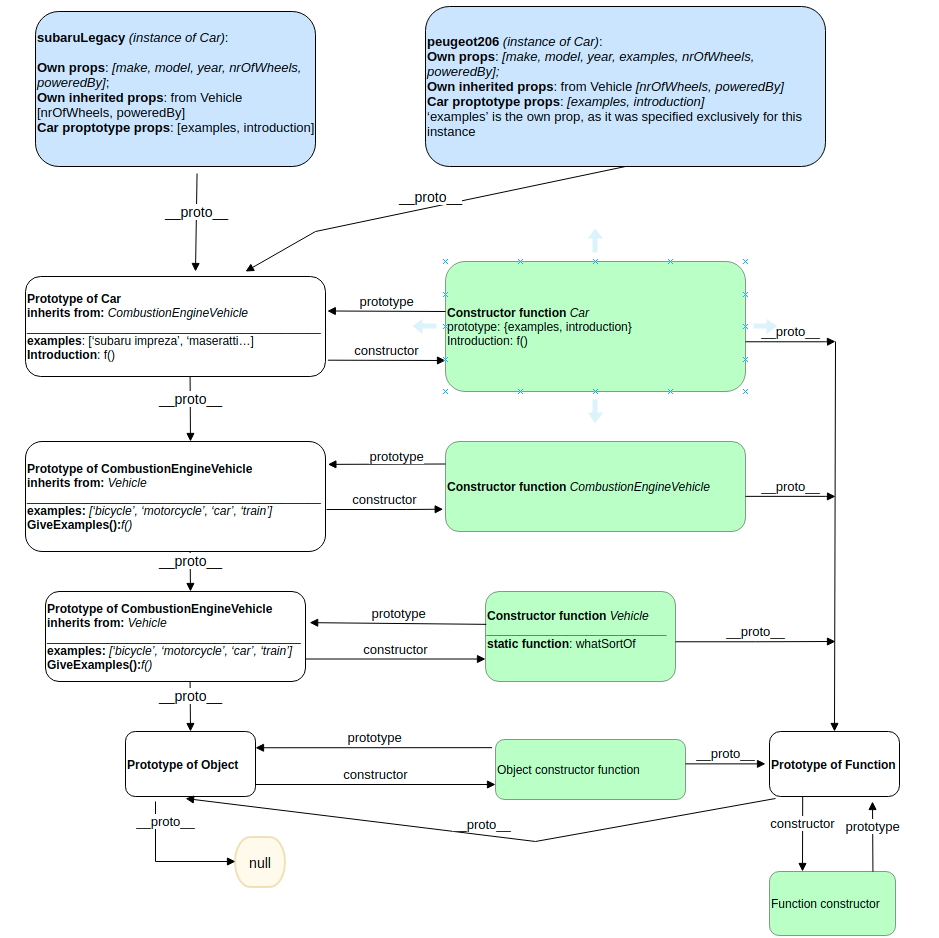
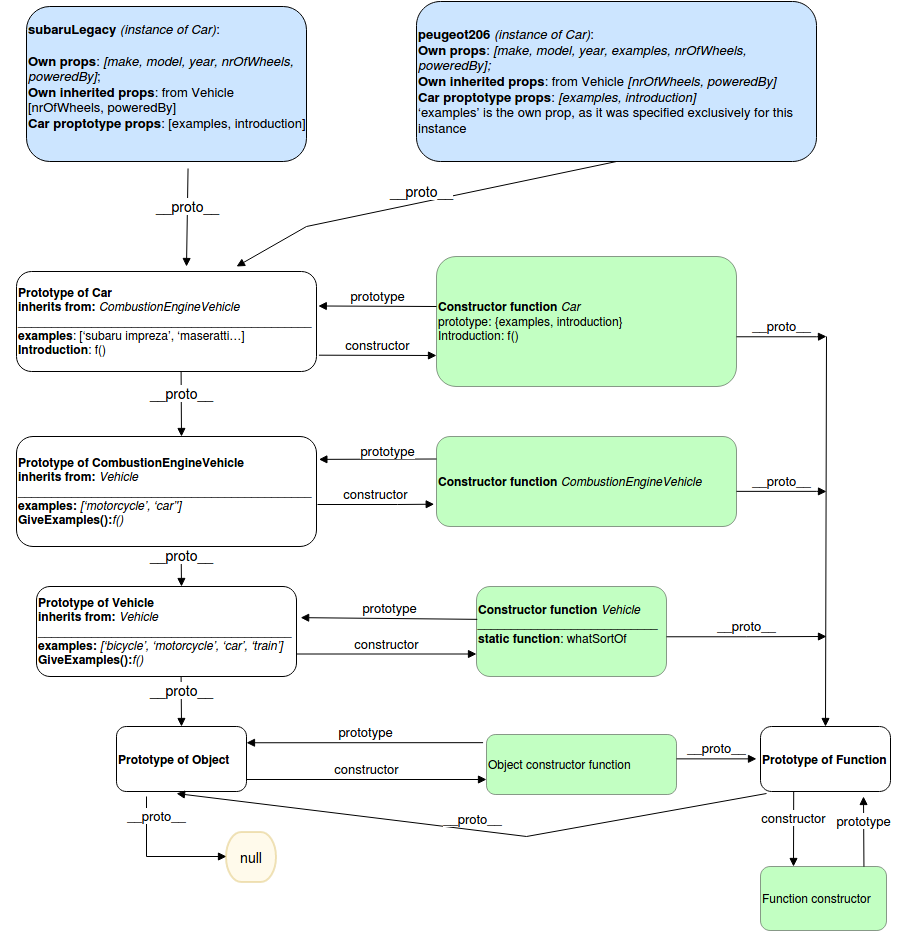
Object prototype chaining article corrected

diff --git a/src/data/js/objects_files/prototypeChaining.js b/src/data/js/objects_files/prototypeChaining.js
@@ -43,7 +43,7 @@ let propertyChainingData = [
                 speaking of objects in general, it is assumed, that each object has its own type, and this type is 
                 related to this objects interface. An interface is a set of public methods and properties. So an 
                 object communicates with the outside world with its interface. Two objects are said to be equal if they have 
-                the same interface (due to "Design Patterns by Erich Gamma, Richard Helm, Ralph Johnson, John Vlissides").
+                the same interface (due to "Design Patterns" by Erich Gamma, Richard Helm, Ralph Johnson, John Vlissides).
                 JS does not recognize different types of objects, but in Type Script this imperfection is fixed.
                 In this article it will be assumed, that two objects are of the same type if they are created with the same
                 constructor. 
@@ -76,10 +76,13 @@ let propertyChainingData = [
                     `There is a single instance of the prototype for each type of objects (for all instances 
                         created with the same constructor). Thanks to this a property added to the prototype is 
                         available in all instances,`,
-                    `Each object in JS has its hidden property [[Prototype]] that references an object protytype`,
+                    `Each object in JS has its hidden property [[Prototype]] that references that object constructor 
+                    protytype`,
                     `<code>__proto__</code> (not an ECMA script solution) is a property allowing to access the objects
-                    prototype. It holds, for example a setter and getter to the prototype,`,
-                    `<code>__proto__</code> should not be used, as it is depracated. <code>Object.getPrototypeOf(o)</code>
+                    prototype. It holds, for example a setter and getter to the prototype. <code>__proto__</code> gives
+                    access to the hidden property [[Prototype]],`,
+                    `<code>__proto__</code> is available, but should not be used, as it is depracated. 
+                    <code>Object.getPrototypeOf(o)</code>
                     and <code>Object.setPrototypeOf(o)</code> should be used instead.`
                 ]
             },
@@ -91,7 +94,7 @@ let propertyChainingData = [
                 elementType:'Paragraph',
                 content:`
                 In general, a prototype is an object, that allows inheritance in JS. Each function in JS has 
-                a prototype object. Each object in JS has access to its creator prototype, so each instance of the 
+                a prototype object. Each object in JS has access to its constructor prototype, so each instance of the 
                 certain object type has access to the same prototype. Adding a method to an object's prototype 
                 makes this method accessible in each instance of this object type. Prototypes in JS are linked together,
                 forming a chain. This chain ends with the Object's prototype followed by a null. If there is a request 
@@ -129,7 +132,8 @@ let propertyChainingData = [
                     `Because the vehicles constructor is a function, it has a <code>__proto__</code> property pointing to 
                     the prototype of the function. And prototype of the function constructor points to the prototype of
                     the object, and the prototype of the object is null,`,
-                    `Vehicle's <code>__proto__</code> points to the object's prototype`,
+                    `Vehicle's <code>__proto__</code> points to the object's prototype, as Vehicle inherits by default after Object`,
+                    `Every object in JS finally has the prototype of the <code>Object</code> in its chain`,
                     `Objects prototype points to null`
                 ]
             },
@@ -227,7 +231,7 @@ peugeot206.__proto__.__proto__.__proto__.__proto__.__proto__ === null; // true;
             {
                 elementType:'UnsignedList',
                 content:[
-                    `Each object in JS has a reference to its prototype (property <code>__proto__</code> that should not
+                    `Each object in JS has a reference to its constructors prototype (property <code>__proto__</code> that should not
                         be used anymore, or <code>Object.getPrototypeOf(o)</code>)`,
                     `Each prototype has a reference to the prototype it inherits from, until the Object is reached with its 
                     prototype reference pointing to null`,
@@ -236,12 +240,73 @@ peugeot206.__proto__.__proto__.__proto__.__proto__.__proto__ === null; // true;
                     `Each constructor has a prototype property that all instances created with the construcotr will refer to,`,
                     `Each constructor has its <code>__proto__</code> pointing to the function prototype, as each constructor is 
                     a function,`,
-                    `The prototype property can be overridden,`,
+                    `The prototype property can be overridden (<code>Object.setPrototypeOf(o, pr)</code>, 
+                    or depraciated <code>o.__proto__ = pr</code>,`,
                     `New elements may be added to the existing prototype, but this is discouraged,`,
                     `Each function in JS has a direct prototype property. This is not common, as most objects have only a 
                     reference like <code>__proto__</code>`
 
                 ]
+            },
+
+            {
+                elementType:'SmallHeadline',
+                content:`
+                The same example written with classes
+                `
+            },
+
+            {
+                elementType:'Code',
+                content:`
+<pre>
+class Vehicle{
+    static whatSortOf = function(nrOfWheels){
+        if (nrOfWheels === 4) return 'Probably a car';
+        if (nrOfWheels === 2) return 'Probably a motorcycle or a bicycle';
+        if (nrOfWheels >= 8 && nrOfWheels % 2 === 0) return 'Could be a train';
+        
+        return \`I don't know\`
+    }
+
+    constructor(nrOfWheels, poweredBy){
+        this.nrOfWheels = nrOfWheels;
+        this.poweredBy = poweredBy;
+        this.constructor.prototype.examples = ['bicycle', 'motorcycle', 'car', 'train'];
+        this.constructor.prototype.giveExamples = function(){
+            console.log(this.examples)
+        }.bind(this);
+    }
+}
+
+class CombustionEngineVehicle extends Vehicle{
+    constructor(nrOfWheels){
+        super(nrOfWheels, 'combustion engine');
+        this.constructor.prototype.examples = ['car', 'motorcycle'];
+    }
+    
+}
+
+class Car extends CombustionEngineVehicle{
+    constructor(make, model, year){
+        super(4);
+        this.make = make;
+        this.model = model;
+        this.year = year;
+        this.constructor.prototype.examples = ['subaru impreza', 'maserati biturbo', 'ford mustang'];
+        this.constructor.prototype.introduction = function(){
+            console.log(\`I am \${this.make} \${this.model} from \${this.year}\`);
+        }.bind(this);
+    }
+}
+
+
+let subaruLegacy = new Car('subaru', 'legacy', '2005');
+// subaruLegacy.examples = ['2.0 H4 SOHC', '2.0 H4 DOHC', '2.5 H4 DOHC Turbo', '3.0 H6']
+let peugeot206 = new Car('peugeot', '206', '2004');
+peugeot206.examples = ['2.0 HDI', '2.0GTI', '1.1 SOHC'];
+</pre>                
+                `
             },
 
 

diff --git a/src/data/js/objects.js b/src/data/js/objects.js
@@ -78,8 +78,10 @@ let data =     {
                     content:[
                         `<code>let keys = Object.keys(person)</code> is a way to get an Array of object keys,`,
                         `<code>for(let key in person)</code> loop,`,
-                        `<code>someObject.getOwnPropertyNames()</code>,`,
-                        `<code>someObject.getOwnPropertySymbols()</code>`,
+                        `<code>Object.getOwnPropertyNames(someObject)</code>,`,
+                        `<code>Object.getOwnPropertySymbols(someObject)</code>`,
+                        `<code>Reflect.getOwnPropertySymbols(somObject)</code>: this gets both: symbol and string
+                        keys`,
                         `There is no guarantee that keys will come up in some repetable order`,
                     ]
                 },
@@ -90,9 +92,10 @@ let data =     {
                 {
                     elementType:'Paragraph',
                     content:
-                        `There is a way to hide a property from being listed with an <code>Object.keys()</code> or
-                        <code>for..in</code> loop. This can be done by setting object descriptors enumerable to
-                        false. Each object property besides its value has more attributes:`
+                        `There is a way to hide object properties from some key listing methods, and there is a way to 
+                        block object properties from being modified. There are methods like <code>Object.freeze()</code> or
+                        <code>Object.seal()</code> or <code>Object.preventExtentions()</code>, but these are described in the
+                        <a href="./object%20methods">object methods</a> section. Here an object descriptor will be covered.`
                 },
                 {
                     elementType:'UnsignedList',
@@ -172,6 +175,8 @@ function Person(firstName, familyName, age){
     this.familyName = familyName;
     this.age = age;
 }
+
+let newPerson = new Person('John', 'Doe', '45');
 </pre>                    
                     `
                 },
@@ -218,8 +223,8 @@ let instance = new Extending();
                 {
                     elementType:'Paragraph',
                     content:[
-                        `Object has some methods allowing its manipulation. To learn more please visit 
-                        <a href="./object%20methods>object methods</a> section.`
+                        `Object has some methods allowing its manipulation. To learn more please visit the 
+                        <a href="./object%20methods">object methods</a> section.`
                     ]
                 },
             ]
